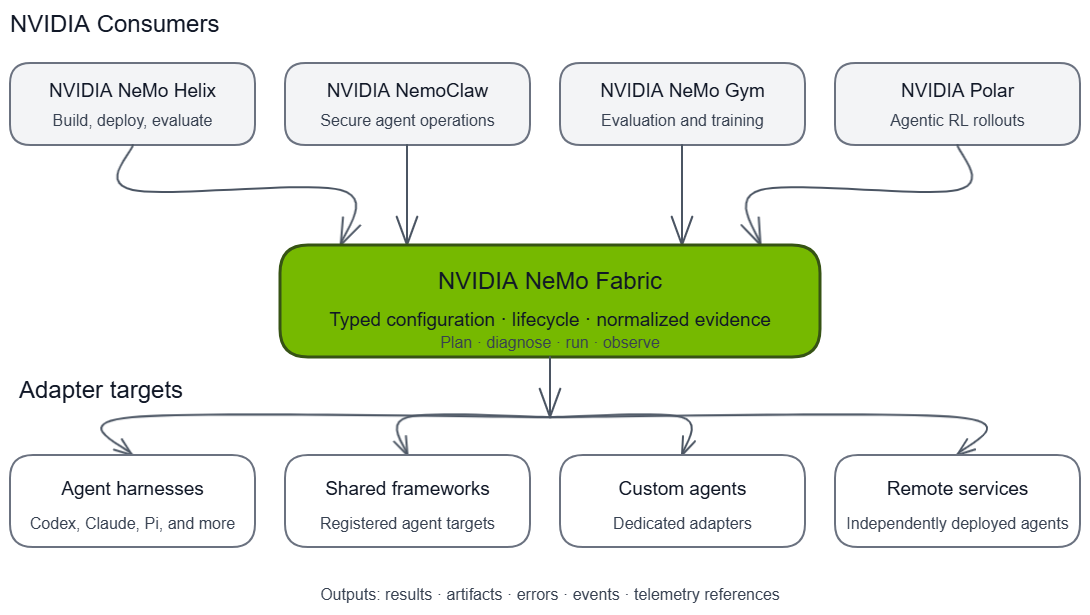
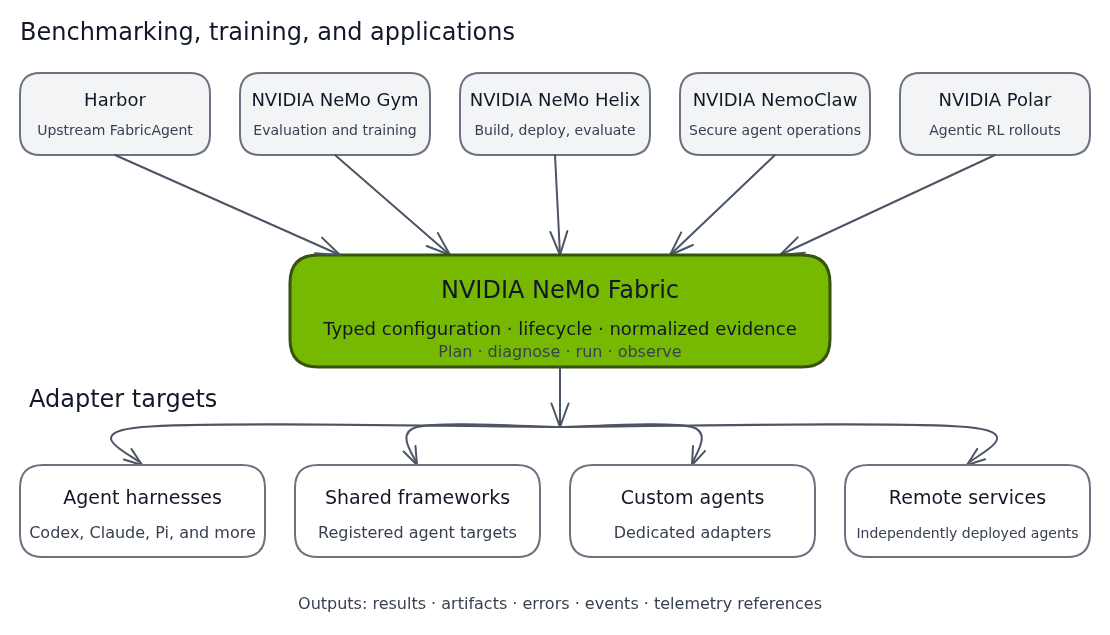
docs: highlight Harbor in ecosystem diagram and README

diff --git a/README.md b/README.md
@@ -51,7 +51,12 @@ NeMo Fabric includes adapters for the following harnesses and execution targets.
 
 ## Ecosystem
 
-NeMo Fabric brings supported agent harnesses into the frameworks teams use to benchmark and improve agents: [Harbor 0.25.0](https://github.com/harbor-framework/harbor/releases/tag/v0.25.0) ships `FabricAgent` upstream, and [NVIDIA NeMo Gym](https://github.com/NVIDIA-NeMo/gym) provides Fabric-backed agents for evaluation and training rollouts. The ecosystem also includes shipped workflows in [NVIDIA NeMo Helix](https://github.com/NVIDIA-NeMo/nemo-helix), an active integration with [NVIDIA NemoClaw](https://github.com/NVIDIA/NemoClaw/), and emerging rollout integrations such as [NVIDIA Polar](https://github.com/NVIDIA-NeMo/ProRL-Agent-Server). [Explore the NeMo Fabric ecosystem](docs/about-nemo-fabric/ecosystem.mdx).
+NeMo Fabric brings supported agent harnesses into the frameworks teams use to benchmark and improve agents:
+
+- **Harbor ships FabricAgent upstream.** [Harbor 0.25.0](https://github.com/harbor-framework/harbor/releases/tag/v0.25.0) includes `FabricAgent`, bringing Fabric-backed harnesses directly into Harbor's benchmarking workflows.
+- **NeMo Gym supports Fabric-backed agents.** [NVIDIA NeMo Gym](https://github.com/NVIDIA-NeMo/gym) integrates Fabric for evaluation and training rollouts.
+
+The ecosystem also includes shipped workflows in [NVIDIA NeMo Helix](https://github.com/NVIDIA-NeMo/nemo-helix), an active integration with [NVIDIA NemoClaw](https://github.com/NVIDIA/NemoClaw/), and emerging rollout integrations such as [NVIDIA Polar](https://github.com/NVIDIA-NeMo/ProRL-Agent-Server). [Explore the NeMo Fabric ecosystem](docs/about-nemo-fabric/ecosystem.mdx).
 
 ## Extensibility
 
